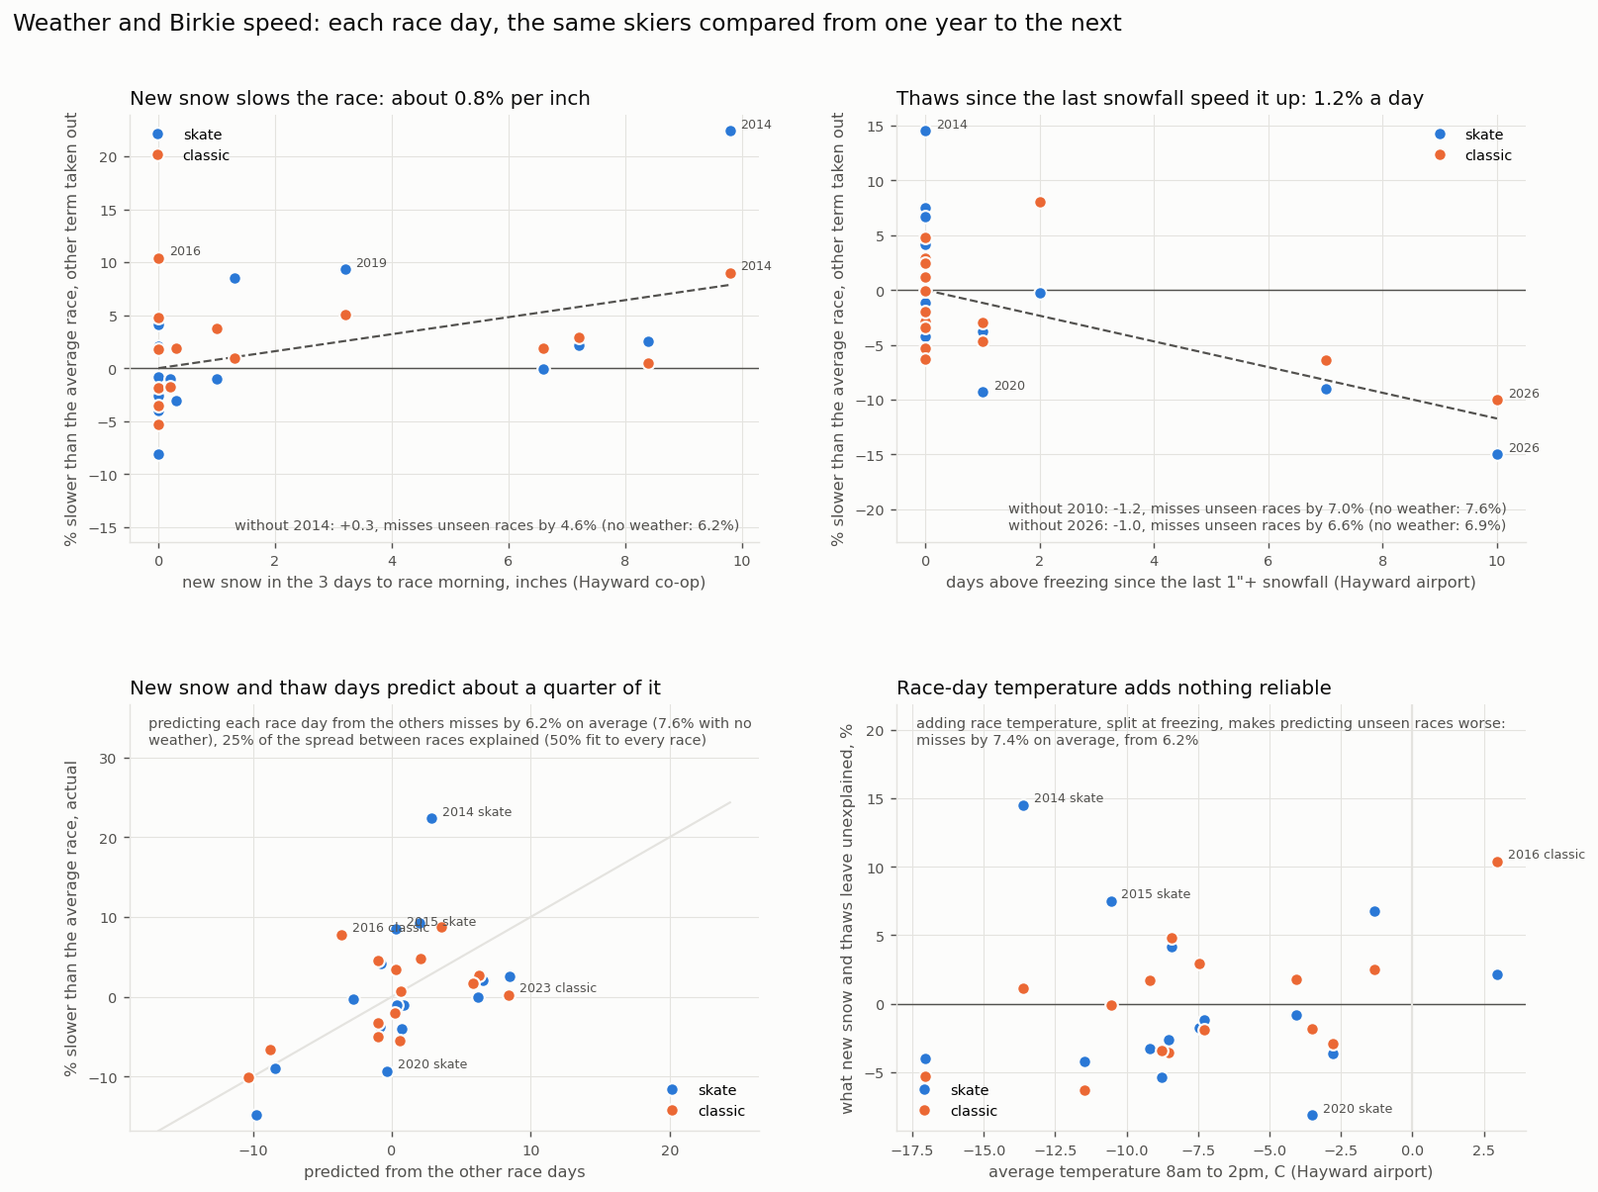
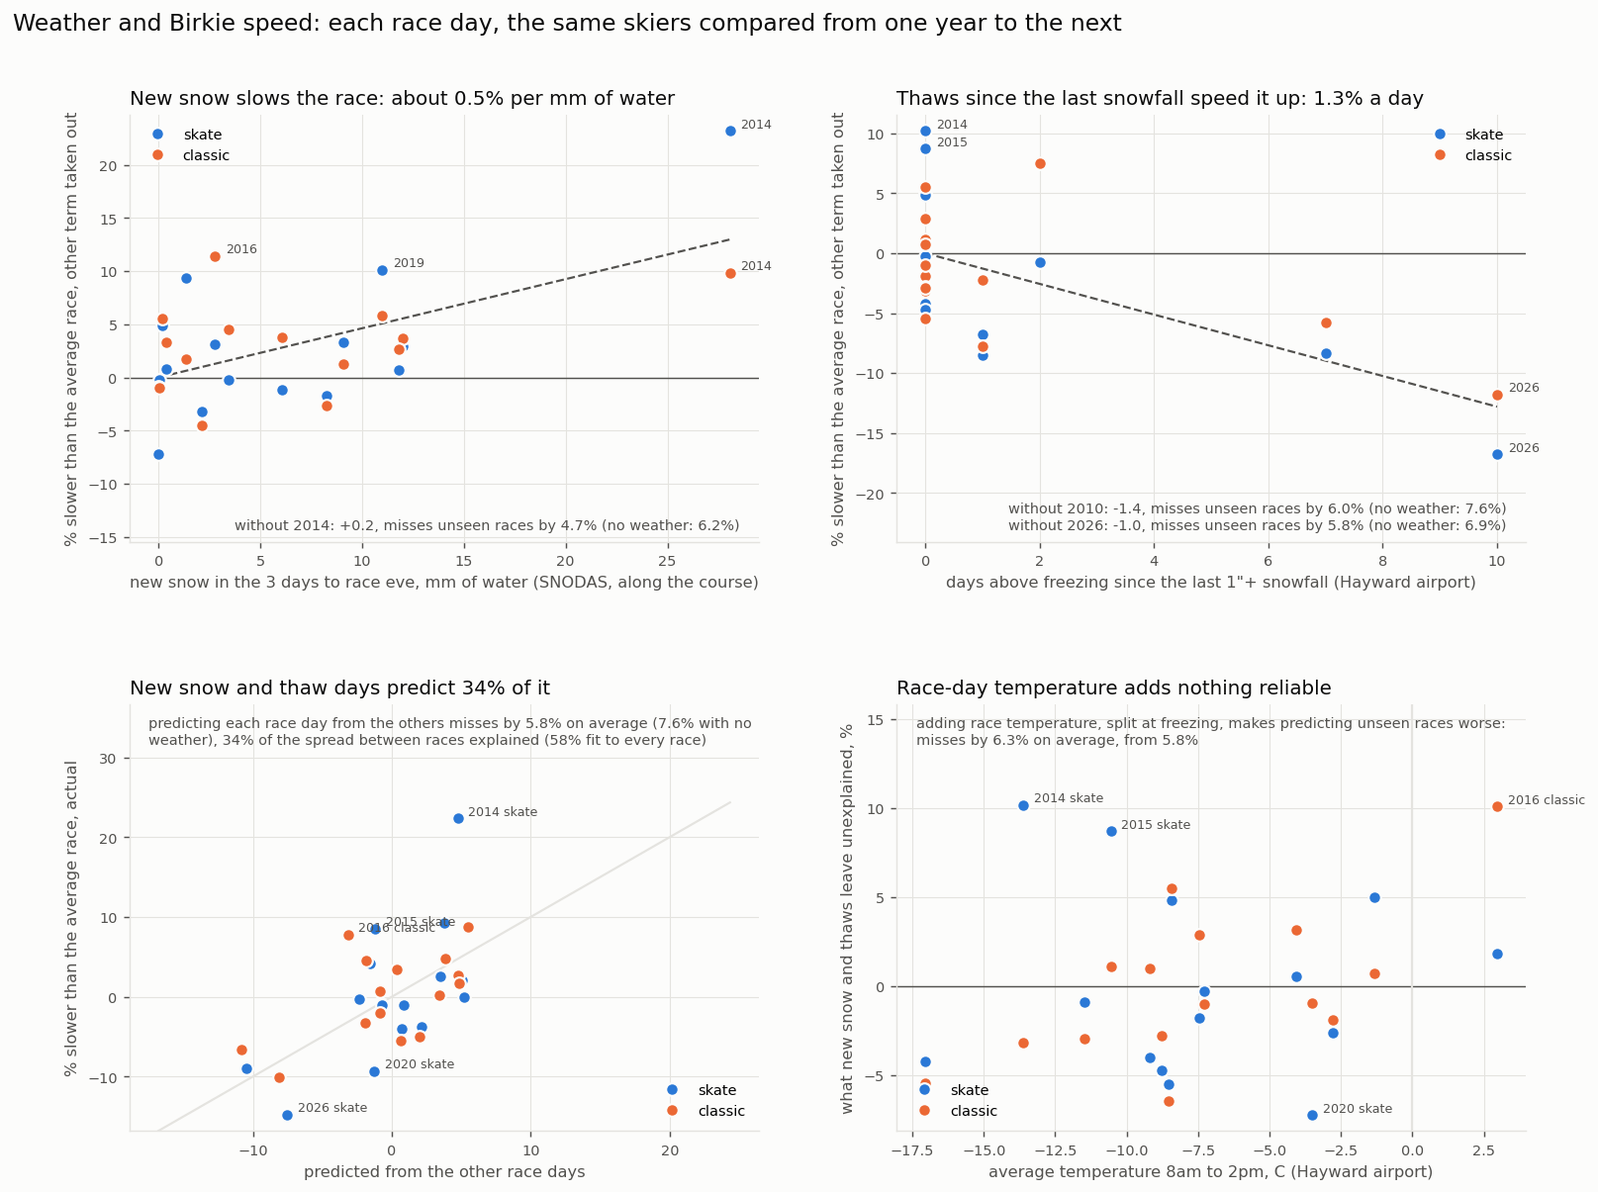
Use SNODAS snowfall along the course in the weather model
weather_speed.py now reads SNODAS's daily grids (snowfall, rain, snow
water, depth, snowpack temperature, melt, sublimation) over the land within
5 km of a line from Cable to Hayward, for the 30 days before each race,
taking each grid's scale from its header, and caches them in weather_data/.
New snow along the course replaces the co-op's single spot as the new snow
measure: with thaw days it predicts 34% of the spread between unseen race
days (25% with the co-op) and still predicts something without 2010 or
2026. The rest of SNODAS adds nothing that holds up: melt is near zero
before every race, rain only came before two, density and snowpack
temperature don't help, and depth and race day snow each rest on one race.

diff --git a/weather_speed.py b/weather_speed.py
@@ -3,9 +3,11 @@
 #is set against the weather around the course:
 #   hourly: hayward municipal airport (HYR, at the finish end) from the iowa environmental mesonet, for temperature
 #           and when it was snowing. its heated gauge reports most snow as a trace, so it can't say how much fell
-#   daily:  the hayward ranger station co-op (GHCN USC00473511) for snowfall amounts. its daily totals end around
-#           midday, so the race day's report covers the night before and the race morning
-#   SNODAS: snow depth on the course, the average of cable and hayward (snow_depth.py's output)
+#   daily:  the hayward ranger station co-op (GHCN USC00473511) for snowfall at one spot, to count the thaw days since
+#           the last snowfall. its daily totals end around midday, so the race day's report covers the race morning
+#   SNODAS: NOAA's daily 1 km snow model (snowfall, rain, snow water, depth, snowpack temperature, melt), averaged
+#           over the land within 5 km of a straight line from cable to hayward, so along the whole course. read once
+#           from the daily tars (snow_depth.py downloads them) and cached. its snowfall is the new snow measure
 #each race is one data point per technique, so there are only 15 of each. every model is judged by leaving out one
 #race day at a time and predicting it from the others, skate and classic together. 2021 is left out: it was a
 #different course, so its speed isn't comparable.
@@ -13,8 +15,11 @@
 #example usage:
 #python weather_speed.py              downloads the weather into weather_data/ the first time
 import argparse
+import concurrent.futures
 import glob
+import gzip
 import os
+import tarfile
 import urllib.request
 
 import matplotlib.pyplot as plt
@@ -23,6 +28,8 @@ import pandas as pd
 
 from performance_changes import load_linked, build_panel, fit_model, style, INK, INK_2, GRID, SURFACE
 from snow_effect import RACE_DAYS
+from snow_depth import TAR_DIR, NEW_TAR_DIR, N_ROWS, N_COLS, CELL, WEST_CENTER, NORTH_CENTER, NO_DATA, tar_files, \
+    land_cells
 
 WEATHER_DIR = 'weather_data'
 ASOS_STATION = 'HYR'
@@ -32,42 +39,53 @@ ASOS_URL = ('https://mesonet.agron.iastate.edu/cgi-bin/request/asos.py?station={
             '&latlon=no&elev=no&missing=M&trace=T&direct=no&report_type=3&report_type=4')
 COOP_URL = ('https://www.ncei.noaa.gov/access/services/data/v1?dataset=daily-summaries&stations={station}'
             '&startDate=2008-10-01&endDate=2026-04-01&dataTypes=SNOW,SNWD,PRCP,TMAX,TMIN&format=csv&units=standard')
-COURSE_TOWNS = [('cable', 'WI'), ('hayward', 'WI')]
+#SNODAS's daily grids by the code in each file name. each tar is dated at midnight central time: the snowpack then,
+#and the totals over the 24 hours before. the scale comes from each grid's header (2026 stores temperature in tenths)
+SNODAS_GRIDS = {'1025SlL01': 'snowfall_mm', '1025SlL00': 'rain_mm', '1034tS__': 'swe_mm', '1036tS__': 'depth_mm',
+                '1038wS__': 'snowpack_k', '1044bS__': 'melt_mm', '1050lL00': 'sublimation_mm'}
+UNIT_TO = {'Meters': 1000, 'Kilograms per square meter': 1, 'Kelvins': 1}       #to mm of water, mm, or kelvin
+COURSE_LINE = [(46.2011, -91.2937), (46.0066, -91.4897)]       #cable to hayward
+COURSE_KM = 5
 LEAVE_OUT_YEARS = [2017, 2021, 2024]    #cancelled, a different course, and the shortened course
 RACE_HOURS = (8, 14)                    #the field is mostly on course from 8am to 2pm
-NEW_SNOW_DAYS = 3                       #race day's co-op report and the two before it
-SNOWFALL_IN = 1.0                       #a snowfall, for counting thaw days since the last one
+NEW_SNOW_DAYS = 3                       #SNODAS's 3 days to race eve, or the co-op's race day report and the two before
+SNOWFALL_IN = 1.0                       #a snowfall at the co-op, for counting thaw days since the last one
 LOOKBACK_DAYS = 30
 TECHS = ['skate', 'classic']
 COLORS = {'skate': '#2a78d6', 'classic': '#eb6834'}
-#candidate models, each on top of a separate level for each technique. the first is the simple one plotted
+#candidate models, each on top of a separate level for each technique. MAIN is the simple one plotted
 MAIN = ['new_snow', 'thaws']
-MODELS = {'technique only': [], 'new snow': ['new_snow'], 'new snow + thaw days': MAIN,
-          '+ race temperature, below and above freezing': MAIN + ['below_freezing', 'above_freezing'],
-          '+ race temperature, mean': MAIN + ['t_race'], '+ overnight low': MAIN + ['overnight_low'],
-          '+ warming during the race': MAIN + ['warming'], '+ froze overnight, thawed in the race': MAIN + ['thaw_in_race'],
-          '+ hours snowing in the race': MAIN + ['snowing_in_race'], '+ course snow depth': MAIN + ['depth_10cm'],
-          'every one of the above': ['new_snow', 'thaws', 'below_freezing', 'above_freezing', 'overnight_low',
-                                     'thaw_in_race', 'snowing_in_race', 'depth_10cm']}
+MAIN_NAME = 'new snow along the course + thaw days'
+EXTRAS = {'+ race temperature, below and above freezing': ['below_freezing', 'above_freezing'],
+          '+ race temperature, mean': ['t_race'], '+ overnight low': ['overnight_low'],
+          '+ warming during the race': ['warming'], '+ froze overnight, thawed in the race': ['thaw_in_race'],
+          '+ hours snowing in the race': ['snowing_in_race'], '+ snow on race day': ['race_day_snow'],
+          '+ snowpack density': ['density'], '+ snowpack temperature': ['snowpack_c'],
+          '+ melt in the week before': ['melt_7d'], '+ rain in the week before': ['rain_7d'],
+          '+ snow depth': ['depth_10cm']}
+MODELS = {'technique only': [], 'new snow along the course': ['new_snow'], MAIN_NAME: MAIN,
+          'new snow at the hayward co-op + thaw days': ['coop_new_snow', 'thaws'],
+          **{name: MAIN + extra for name, extra in EXTRAS.items()},
+          'every one of the above': MAIN + [k for extra in EXTRAS.values() for k in extra]}
 N_BOOTSTRAP = 1000
 
 
 def main():
     parser = argparse.ArgumentParser()
     parser.add_argument("--linked", type=str, default='linked_data/linked_results.csv')
-    parser.add_argument("--snow", type=str, default='snow_data', help='folder with snow_depth.py\'s output')
     parser.add_argument("--refresh", action='store_true', help='download the weather again')
+    parser.add_argument("--reread_snodas", action='store_true', help='read the SNODAS tars again')
     args = parser.parse_args()
 
     download(args.refresh)
-    weather = race_weather(hourly_weather(), daily_weather(), course_depth(args.snow))
+    weather = race_weather(hourly_weather(), daily_weather(), course_snowpack(args.reread_snodas))
     data = race_speeds(load_linked(args.linked)).join(weather, on='condition', how='inner')
     data = data.reset_index(drop=True)
 
     scores = {name: cross_validate(data, terms) for name, terms in MODELS.items()}
     fit = fit_terms(data, MAIN)
     boot = bootstrap_days(data, MAIN)
-    data['predicted'] = scores['new snow + thaw days']['predicted']
+    data['predicted'] = scores[MAIN_NAME]['predicted']
     print_summary(data, scores, fit, boot)
     plot_weather(data, fit, scores)
     data.round(3).to_csv(os.path.join(os.path.dirname(args.linked) or '.', 'weather_speed.csv'), index=False)
@@ -110,12 +128,67 @@ def daily_weather():
     return d.set_index('DATE')['SNOW'].fillna(0)
 
 
-def course_depth(snow_dir):
-    towns = pd.read_csv(os.path.join(snow_dir, 'hometowns.csv'))
-    ids = [towns.loc[(towns['city'] == c) & (towns['state'] == s), 'hometown_id'].iloc[0] for c, s in COURSE_TOWNS]
-    depth = pd.read_parquet(os.path.join(snow_dir, 'hometown_snow_depth.parquet'), columns=['hometown_id', 'date',
-                                                                                             'depth_10km_mm'])
-    return depth[depth['hometown_id'].isin(ids)].groupby('date')['depth_10km_mm'].mean() / 10
+def course_cells(land):
+    #flat grid indexes of the land within COURSE_KM of the line from cable to hayward
+    (lat0, lon0), (lat1, lon1) = COURSE_LINE
+    rows = np.arange(int((NORTH_CENTER - max(lat0, lat1)) / CELL) - 60, int((NORTH_CENTER - min(lat0, lat1)) / CELL) + 60)
+    cols = np.arange(int((min(lon0, lon1) - WEST_CENTER) / CELL) - 60, int((max(lon0, lon1) - WEST_CENTER) / CELL) + 60)
+    r, c = np.meshgrid(rows, cols, indexing='ij')
+    lat, lon = NORTH_CENTER - r * CELL, WEST_CENTER + c * CELL
+    #distance to the segment, on a flat km grid around the course
+    kx, ky = 111.2 * np.cos(np.radians((lat0 + lat1) / 2)), 111.2
+    px, py, ax, ay, bx, by = lon * kx, lat * ky, lon0 * kx, lat0 * ky, lon1 * kx, lat1 * ky
+    t = np.clip(((px - ax) * (bx - ax) + (py - ay) * (by - ay)) / ((bx - ax) ** 2 + (by - ay) ** 2), 0, 1)
+    km = np.hypot(px - (ax + t * (bx - ax)), py - (ay + t * (by - ay)))
+    cells = (r * N_COLS + c)[km <= COURSE_KM].astype(np.int64)
+    return cells[land[cells]]
+
+
+def set_course(cells):
+    global COURSE
+    COURSE = cells
+
+
+def grid_scale(header):
+    #"Data units: Meters / 1000.000000" -> what to multiply the stored integers by
+    line = next(l for l in header.splitlines() if l.lower().startswith('data units'))
+    unit, _, divisor = line.split(':', 1)[1].partition('/')
+    return UNIT_TO[unit.strip()] / float(divisor or 1)
+
+
+def course_day(path):
+    #one tar: each grid's average over the course
+    out = {}
+    with tarfile.open(path) as t:
+        names = t.getnames()
+        for code, name in SNODAS_GRIDS.items():
+            data = next((n for n in names if code in n and n.endswith('.dat.gz')), None)
+            if data is None:
+                continue
+            header = gzip.decompress(t.extractfile(data.replace('.dat.gz', '.txt.gz')).read()).decode('latin1')
+            grid = np.frombuffer(gzip.decompress(t.extractfile(data).read()), dtype='>i2')
+            values = grid[COURSE].astype(float)
+            values = values[values != NO_DATA]
+            out[name] = values.mean() * grid_scale(header) if len(values) else np.nan
+    return out
+
+
+def course_snowpack(refresh=False, workers=6):
+    #SNODAS along the course for the LOOKBACK_DAYS before each race and the race day after, cached
+    path = os.path.join(WEATHER_DIR, 'snodas_course.csv')
+    if os.path.exists(path) and not refresh:
+        return pd.read_csv(path, parse_dates=['date']).set_index('date')
+    paths = tar_files([TAR_DIR, NEW_TAR_DIR])
+    cells = course_cells(land_cells(paths))
+    days = sorted({d for day in race_days().values() for d in pd.date_range(day - pd.Timedelta(days=LOOKBACK_DAYS),
+                                                                             day + pd.Timedelta(days=1))})
+    days = [d for d in days if d in paths.index]
+    print('reading SNODAS for {} days over {} course cells'.format(len(days), len(cells)))
+    with concurrent.futures.ProcessPoolExecutor(workers, initializer=set_course, initargs=(cells,)) as pool:
+        rows = list(pool.map(course_day, [paths[d] for d in days], chunksize=4))
+    snow = pd.DataFrame(rows, index=pd.DatetimeIndex(days, name='date'))
+    snow.round(3).to_csv(path)
+    return snow
 
 
 def race_days():
@@ -123,25 +196,33 @@ def race_days():
     return {str(y): pd.Timestamp(d) for y, d in RACE_DAYS.items() if y not in LEAVE_OUT_YEARS}
 
 
-def race_weather(hourly, snowfall, depth):
+def race_weather(hourly, snowfall, snodas):
     rows = {}
+    daily_max = hourly['t'].resample('D').max()
     for condition, day in race_days().items():
         start, end = day + pd.Timedelta(hours=RACE_HOURS[0]), day + pd.Timedelta(hours=RACE_HOURS[1] - 1)
         race = hourly.loc[start:end]
         night = hourly.loc[day - pd.Timedelta(hours=6):start - pd.Timedelta(hours=1), 't']
-        #snowfall reports back from the race day, and the days since the last real snowfall
+        #co-op snowfall reports back from the race day, and the thaw days since the last real snowfall
         back = snowfall.reindex(pd.date_range(day - pd.Timedelta(days=LOOKBACK_DAYS - 1), day))[::-1].fillna(0).values
         snowed = np.where(back >= SNOWFALL_IN)[0]
         since = int(snowed[0]) if len(snowed) else LOOKBACK_DAYS
-        daily_max = hourly['t'].resample('D').max()
         thaws = int((daily_max.loc[day - pd.Timedelta(days=since):day - pd.Timedelta(days=1)] > 0).sum()) if since else 0
+        #SNODAS along the course, back from race eve (the tar dated race day: the snowpack at midnight before it)
+        sn = snodas.reindex(pd.date_range(day - pd.Timedelta(days=LOOKBACK_DAYS - 1), day))[::-1]
+        eve = sn.iloc[0]
         rows[condition] = {
-            'date': day, 'new_snow': back[:NEW_SNOW_DAYS].sum(), 'days_since_snowfall': since, 'thaws': thaws,
+            'date': day, 'new_snow': sn['snowfall_mm'].iloc[:NEW_SNOW_DAYS].sum(),
+            'coop_new_snow': back[:NEW_SNOW_DAYS].sum(), 'days_since_snowfall': since, 'thaws': thaws,
             't_race': race['t'].mean(), 'below_freezing': np.maximum(-race['t'], 0).mean(),
             'above_freezing': np.maximum(race['t'], 0).mean(), 'overnight_low': night.min(),
             'warming': hourly.loc[end, 't'] - hourly.loc[start, 't'],
             'thaw_in_race': float(night.min() < 0 and (race['t'] > 0).any()),
-            'snowing_in_race': race['snowing'].sum(), 'depth_10cm': depth.get(day, np.nan) / 10}
+            'snowing_in_race': race['snowing'].sum(),
+            'race_day_snow': snodas['snowfall_mm'].get(day + pd.Timedelta(days=1), np.nan),
+            'density': 1000 * eve['swe_mm'] / eve['depth_mm'], 'snowpack_c': eve['snowpack_k'] - 273.15,
+            'melt_7d': sn['melt_mm'].iloc[:7].sum(), 'rain_7d': sn['rain_mm'].iloc[:7].sum(),
+            'depth_10cm': eve['depth_mm'] / 100}
     return pd.DataFrame(rows).T.astype({k: float for k in rows[next(iter(rows))] if k != 'date'})
 
 
@@ -208,7 +289,7 @@ def print_summary(data, scores, fit, boot):
     print('\nshare of the spread between races explained, fit to every race / predicting each race day from the rest:')
     for name, s in scores.items():
         print('  {:48s} {:5.2f}  {:5.2f}   (miss by {:.1f}% on average)'.format(name, s['in_sample'], s['cv'], s['rmse']))
-    print('\nnew snow + thaw days, % slower [95% CI over race days]:')
+    print('\n{}, % slower per mm of new snow water and per thaw day [95% CI over race days]:'.format(MAIN_NAME))
     for k in MAIN:
         print('  {:10s} {:+.2f} [{:+.2f}, {:+.2f}]'.format(k, fit[k], *boot[k].quantile([0.025, 0.975])))
     #a few races carry each term: 2014 the new snow, 2010 and 2026 (7 and 10 thaw days) the thaws
@@ -219,7 +300,8 @@ def print_summary(data, scores, fit, boot):
         f = fit_terms(sub, MAIN)
         print('  {:22s} new snow {:+.2f}  thaws {:+.2f}  (explained {:.2f}, predicting {:.2f})'.format(
             label, f['new_snow'], f['thaws'], cross_validate(sub, MAIN)['in_sample'], cross_validate(sub, MAIN)['cv']))
-    cols = ['tech', 'condition', 'slower', 'predicted', 'new_snow', 'thaws', 't_race', 'overnight_low', 'snowing_in_race']
+    cols = ['tech', 'condition', 'slower', 'predicted', 'new_snow', 'coop_new_snow', 'thaws', 't_race', 'density',
+            'rain_7d']
     print('\nevery race, % slower than average and the prediction from the other race days:')
     print(data[cols].sort_values(['tech', 'condition']).round(1).to_string(index=False))
 
@@ -239,8 +321,8 @@ def plot_weather(data, fit, scores):
                 y, fit_terms(sub, MAIN)[term], cross_validate(sub, MAIN)['rmse'], cross_validate(sub, [])['rmse']))
         leans[term] = '\n'.join(parts)
     for i, (term, title, xlabel) in enumerate([
-            ('new_snow', 'New snow slows the race: about {:.1f}% per inch', 'new snow in the 3 days to race morning, '
-                                                                               'inches (Hayward co-op)'),
+            ('new_snow', 'New snow slows the race: about {:.1f}% per mm of water',
+             'new snow in the 3 days to race eve, mm of water (SNODAS, along the course)'),
             ('thaws', 'Thaws since the last snowfall speed it up: {:.1f}% a day',
              'days above freezing since the last 1"+ snowfall (Hayward airport)')]):
         ax = fig.add_subplot(grid[0, i])
@@ -274,13 +356,13 @@ def plot_weather(data, fit, scores):
     for _, r in data.loc[(data['slower'] - data['predicted']).abs().sort_values().index[-5:]].iterrows():
         ax.annotate('{} {}'.format(r['condition'], r['tech']), (r['predicted'], r['slower']), xytext=(6, 2),
                     textcoords='offset points', fontsize=7, color=INK_2)
-    s = scores['new snow + thaw days']
+    s = scores[MAIN_NAME]
     ax.set_ylim(lim[0], lim[1] + 0.3 * (lim[1] - lim[0]))
     ax.text(0.03, 0.97, 'predicting each race day from the others misses by {:.1f}% on average ({:.1f}% with no\n'
             'weather), {:.0%} of the spread between races explained ({:.0%} fit to every race)'.format(
                 s['rmse'], scores['technique only']['rmse'], s['cv'], s['in_sample']),
             transform=ax.transAxes, fontsize=8, color=INK_2, va='top')
-    style(ax, 'New snow and thaw days predict about a quarter of it', '% slower than the average race, actual',
+    style(ax, 'New snow and thaw days predict {:.0%} of it'.format(s['cv']), '% slower than the average race, actual',
           'predicted from the other race days')
     ax.legend(loc='lower right', fontsize=8, frameon=False)
 

diff --git a/README.md b/README.md
@@ -119,22 +119,28 @@ Weather and race speed:
 python weather_speed.py     writes graphs/weather_speed.png and linked_data/weather_speed.csv, and downloads the
                             weather into weather_data/ the first time
 
+python weather_speed.py --reread_snodas     reads the SNODAS tars again (about 7 minutes) instead of the cache
+
 Sets each race day's speed (from the year to year model, the same skiers compared from one race to the next) against
 the weather around the course: hourly temperature and when it was snowing from the Hayward airport (HYR, through the
-Iowa Environmental Mesonet), daily snowfall from the Hayward Ranger Station co-op (GHCN USC00473511), and course snow
-depth from SNODAS. The airport's heated gauge reports most snow as a trace, so snowfall amounts come from the co-op.
-2021 was a different course and is left out, which leaves only 15 race days, so every model is judged by predicting
-each race day from the others. Two things show up. New snow in the 3 days to race morning slows the race, about 0.8%
-per inch (1.1% skate, 0.5% classic), and thaws since the last 1"+ snowfall speed it up, about 1.2% for each day above
-freezing. Together they explain half the spread between races, and predicting each race day from the others a
-quarter (missing by 6.2% on average against 7.6% with no weather). Both lean on a few races: without 2014 new snow is
-worth 0.3% per inch, and without 2010 or 2026, the two races after a long thawed spell, the predictions are no better
-than no weather at all. Race temperature adds nothing that holds up, whether split at freezing, as the overnight low,
-the warming during the race, or a freeze overnight and thaw during the race. Only a few race days got above freezing
-at all, so the warm side can't really be tested. Course snow depth helps a little, but only through 2014, which had
-both the most new snow and the deepest snow, so the two can't be told apart. The worst misses are 2014 skate (22%
-slow, predicted 3%), 2016 classic (warm and wet, 8% slow, predicted 4% fast), 2020 skate (9% fast, predicted average)
-and 2015 skate (8% slow, predicted average).
+Iowa Environmental Mesonet), daily snowfall from the Hayward Ranger Station co-op (GHCN USC00473511), and SNODAS's
+daily grids (snowfall, rain, snow water, depth, snowpack temperature, melt) averaged over the land within 5 km of a
+straight line from Cable to Hayward. 2021 was a different course and is left out, which leaves only 15 race days, so
+every model is judged by predicting each race day from the others. Two things show up. New snow in the 3 days to race
+eve slows the race, about 0.5% per mm of water along the course (0.7% skate, 0.25% classic; a mm of water is roughly
+a cm of fresh snow), and thaws since the last 1"+ snowfall speed it up, about 1.3% for each day above freezing.
+Together they explain 58% of the spread between races, and predicting each race day from the others 34% (missing by
+5.8% on average against 7.6% with no weather). SNODAS's snowfall along the course does better than the co-op's at one
+spot (25%), and holds up better too: leaving out 2010 or 2026, the two races after a long thawed spell, it still
+predicts 26% and 20%, where the co-op version predicted nothing. New snow still leans on 2014 (0.2% per mm without
+it). The rest of SNODAS adds nothing that holds up: melt is near zero before every race (melt that refreezes in the
+snowpack isn't counted), only 2016 and 2026 had rain the week before, and snowpack density and temperature don't help.
+Snow depth and snow on race day look like they help, but only through one race each (2014, and 2018, whose race day
+snow mostly fell after the race and comes out as making the race faster). Race temperature adds nothing that holds
+up either, whether split at freezing, as the overnight low, the warming during the race, or a freeze overnight and
+thaw during the race; only a few race days got above freezing at all, so the warm side can't really be tested. The
+worst misses are 2014 skate (22% slow, predicted 5%), 2016 classic (warm and wet, 8% slow, predicted 3% fast), 2015
+skate (8% slow, predicted 1% fast) and 2020 skate (9% fast, predicted 1% fast).
 
 ![Image](https://github.com/drewpolasky/birkie_data/blob/master/graphs/weather_speed.png?raw=true)
 
